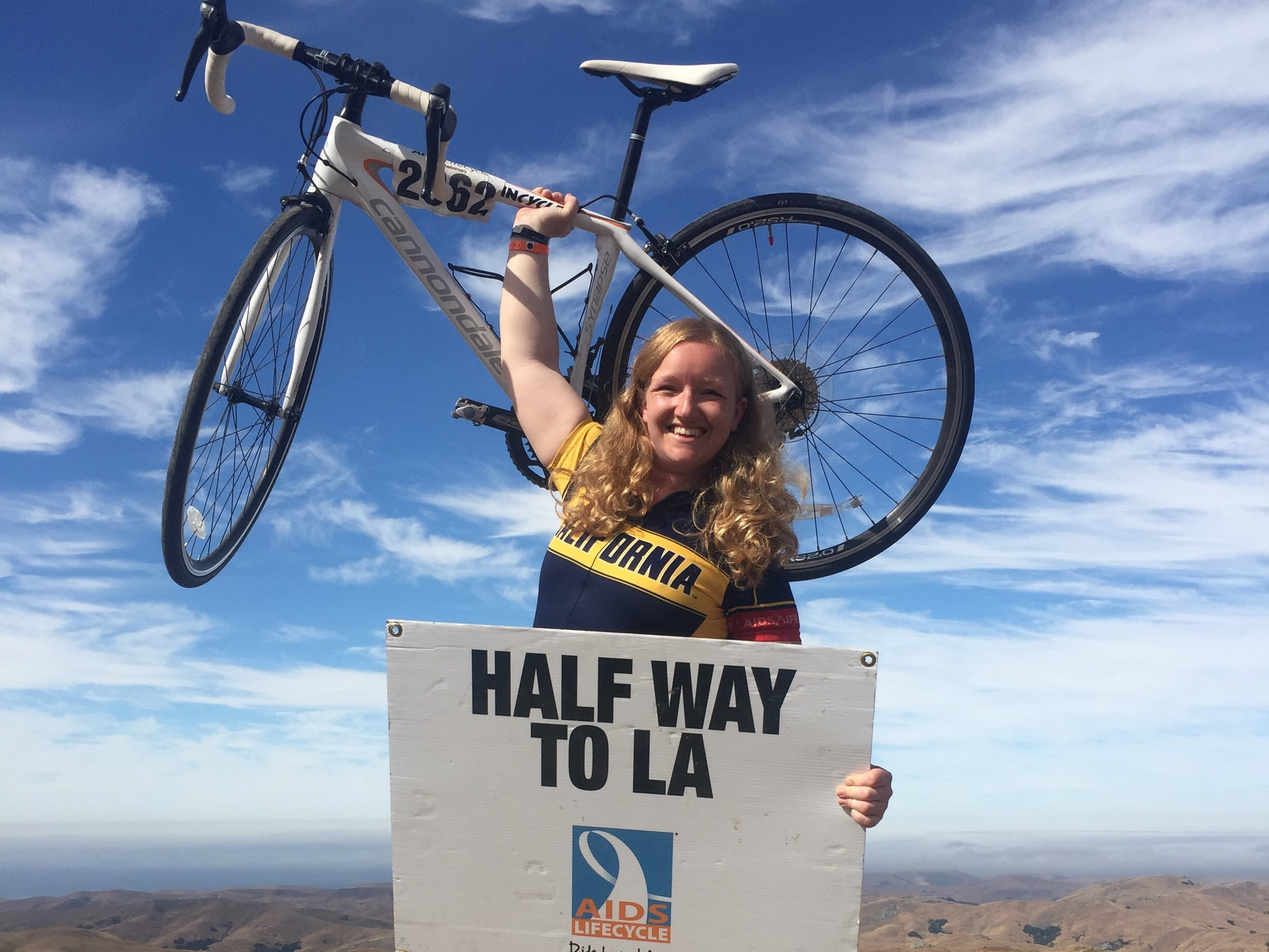
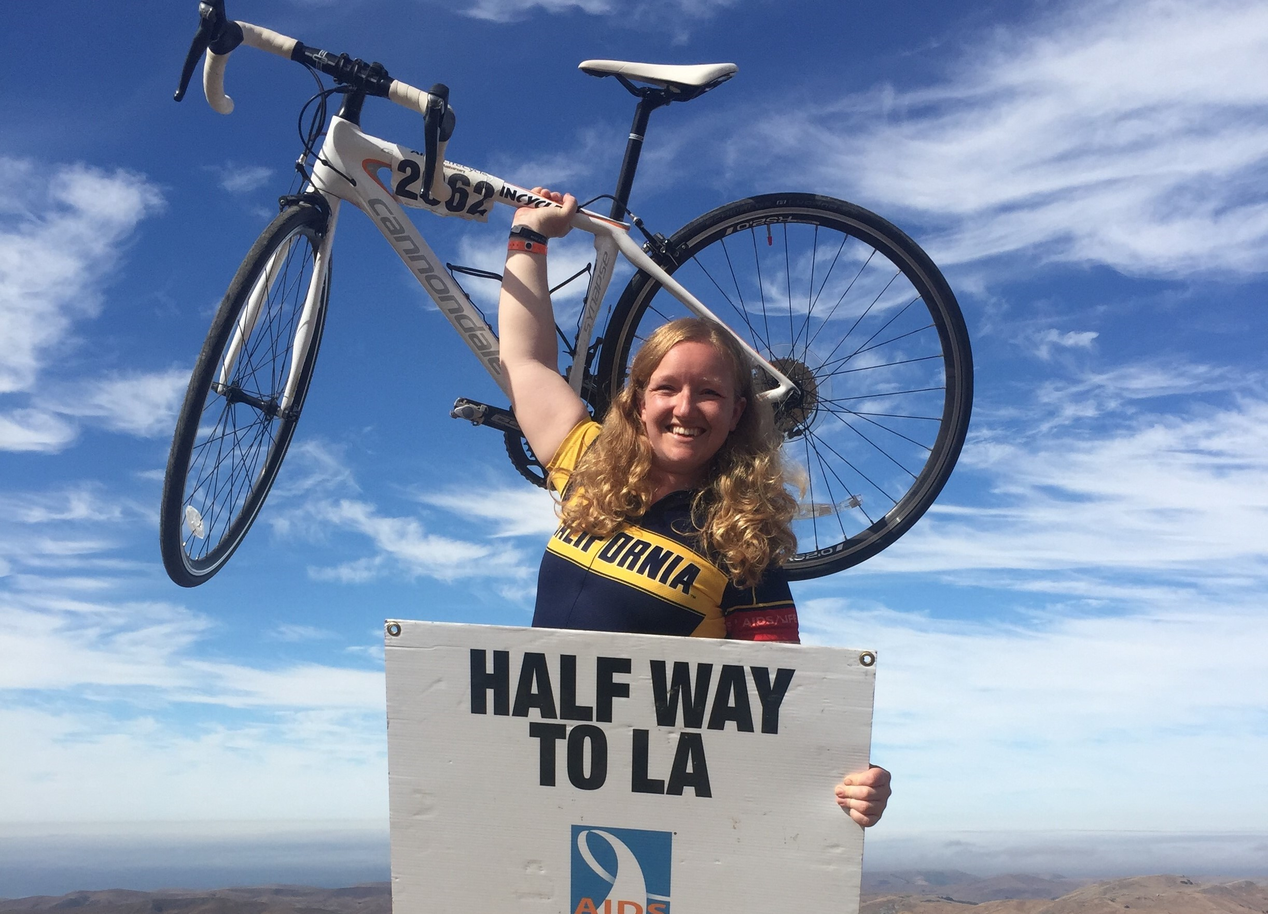
Fix size of kirstie pic & update contact text

diff --git a/_includes/contact_static.html b/_includes/contact_static.html
@@ -5,18 +5,18 @@
 			<div class="col-lg-12 text-center">
 				<h2>Contact the team</h2>
 				<hr class="star-primary">
-				<p>
-					We have two mailing lists: one for 2018 ALC participants, and the other for alumni members.
-				</p>
-				<p>
-					You can apply to join these lists by clicking "Apply for membership" at the google groups pages
-					for the 
-					<a href=https://groups.google.com/forum/#!members/teamcal-alc-alumni>alumni list</a>
-					and the <a href=https://groups.google.com/forum/#!members/teamcal-alc2018>2018 riders and roadies list</a>.
-				</p>
-				<p>
-					Alternatively, fill in the form below to send an email to 2018 Team Captain Kirstie Whitaker.
-				</p>
+				<div class="col-lg-8 col-lg-offset-2 text-center">
+					<p>
+						We have two mailing lists: one for 2018 ALC participants, and the other for alumni members.
+						You can apply to join these lists by clicking <i>Apply for membership</i> at the pages
+					  for the <a href=https://groups.google.com/forum/#!members/teamcal-alc-alumni>alumni list</a>
+					  and the <a href=https://groups.google.com/forum/#!members/teamcal-alc2018>2018 riders and roadies list</a>.
+					</p>
+					<p>
+					Or fill in the form below to send an email to 2018 Team Captain Kirstie Whitaker.
+					</p>
+				</div>
+			</div>
 			</div>
 		</div>
 		<div class="row">
